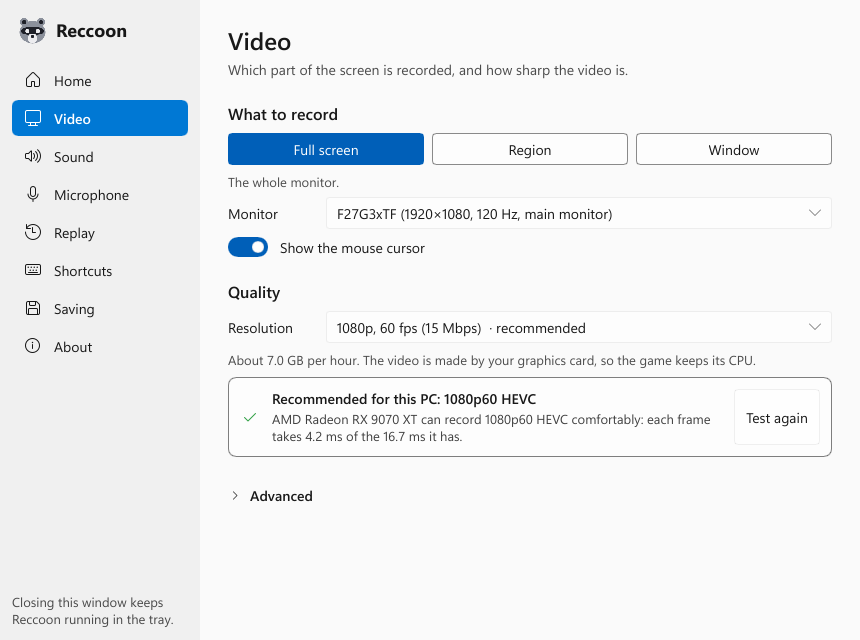
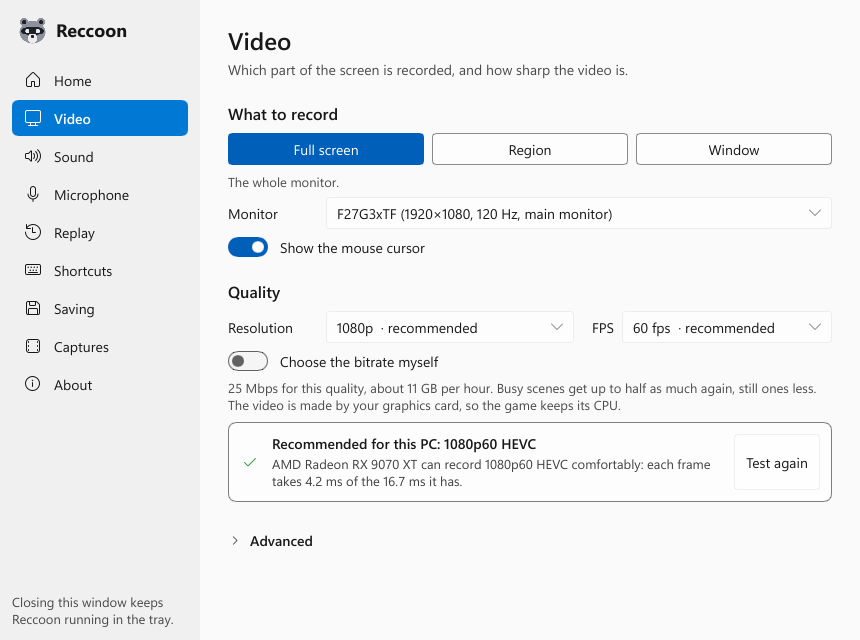
Designed: Screenshots of version 1.0.0
Added:
- Captures page screenshot

Modified:
- Home, Video and Sound screenshots show version 1.0.0

diff --git a/README.md b/README.md
@@ -64,7 +64,11 @@ Measured on a Ryzen 7 9800X3D with a Radeon RX 9070 XT:
 
 <p align="center">
   <img src="docs/images/sound.png" width="430" alt="Sound page: two HyperX devices, each heard in the video or with an editing track">
-  <img src="docs/images/video.png" width="430" alt="Video page: what to record and the quality, with the recommendation from the 10-second test">
+  <img src="docs/images/video.png" width="430" alt="Video page: what to record, resolution and FPS, with the recommendation from the 10-second test">
+</p>
+
+<p align="center">
+  <img src="docs/images/captures.png" width="430" alt="Captures page: saved videos by month, each with a picture and buttons to trim, compress, show in folder or delete">
 </p>
 
 ## Requirements
